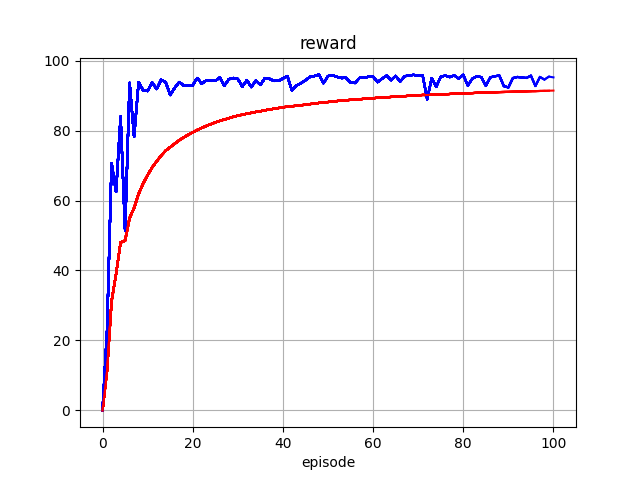
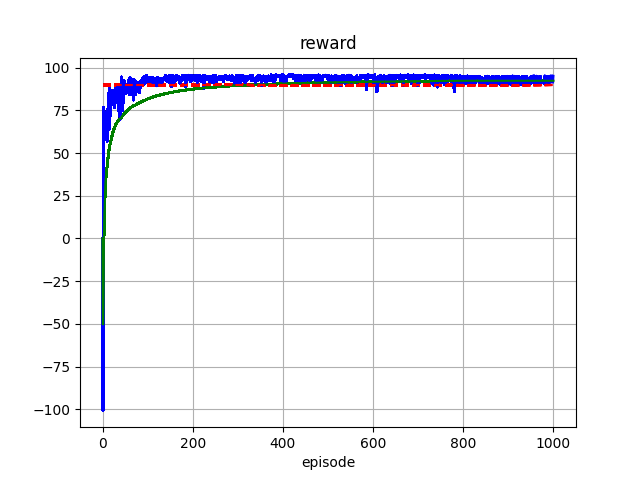
improve stability of algorithm

diff --git a/a2c_mtcar.py b/a2c_mtcar.py
@@ -34,9 +34,9 @@ parser = argparse.ArgumentParser(description='PyTorch A2C solution of MountainCa
 parser.add_argument('--gamma', type=float, default=0.986)
 parser.add_argument('--actor_lr', type=float, default=1e-5)
 parser.add_argument('--critic_lr', type=float, default=5e-4)  
-parser.add_argument('--hidden_dim', type=int, default=128)
-parser.add_argument('--max_episode', type=int, default=100)
-parser.add_argument('--seed', type=int, default=87)
+parser.add_argument('--hidden_dim', type=int, default=200)
+parser.add_argument('--max_episode', type=int, default=1000)
+parser.add_argument('--seed', type=int, default=1)
 
 # parse arguments
 cfg = parser.parse_args()
@@ -44,8 +44,8 @@ cfg = parser.parse_args()
 # set up game environment
 env = gym.make('MountainCarContinuous-v0')
 
-# set the seed
-torch.manual_seed(cfg.seed)
+# # set the seed
+# torch.manual_seed(cfg.seed)
 
 # generate some data to fit scaler and featurizer
 observation_examples = np.array([env.observation_space.sample() for x in range(10000)])
@@ -106,8 +106,8 @@ def main():
             next_state, reward, done, _ = env.step([action])[0:4]
             
             # update episode score
-            episode_score += reward
-            
+            episode_score += reward # type: ignore  
+                      
             # process the next state to get the features
             proc_state_next = process_state(next_state, scaler, featurizer) 
 
@@ -120,22 +120,25 @@ def main():
             # calculate the td error
             td_error = target - get_state_value(proc_state, critic, device)
             
-            # update actor (gradient descent) 
-            update_actor(state, 
-                         actor, 
-                         action, 
-                         td_error, 
-                         actor_optimizer, 
-                         device, 
-                         proc_state)
-            
-            # update critic (gradient descent) 
-            update_critic(state, 
-                          target, 
-                          critic, 
-                          critic_optimizer, 
-                          device, 
-                          proc_state)
+            # only update the actor and critic every 10 steps to reduce variance
+            # of gradient descent steps
+            if t%10==0: 
+                # update actor (gradient descent) 
+                update_actor(state, 
+                            actor, 
+                            action, 
+                            td_error, 
+                            actor_optimizer, 
+                            device, 
+                            proc_state)
+                
+                # update critic (gradient descent) 
+                update_critic(state, 
+                            target, 
+                            critic, 
+                            critic_optimizer, 
+                            device, 
+                            proc_state)
 
             if done:
                 
@@ -150,7 +153,8 @@ def main():
                 plt.title('reward')
                 plt.xlabel('episode')
                 plt.plot(last_score_plot, 'b-')
-                plt.plot(avg_score_plot, 'r-')
+                plt.plot(avg_score_plot, 'g-')
+                plt.hlines(90, 0, len(last_score_plot)-1, colors='r', linestyles='dashed') # type: ignore      
                 plt.draw()
                 plt.pause(0.001)
                 
@@ -162,7 +166,7 @@ def main():
         stats.append(episode_score)
             
         # print episode results
-        print("Episode: {}, reward: {}, steps: {}.".format(i_episode, episode_score, t))
+        print("Episode: {}, reward: {}, steps: {}.".format(i_episode, episode_score, t)) # type: ignore
         
         # check if game is solved successfully
         if np.mean(stats[-100:]) > 90 and len(stats) >= 100:
